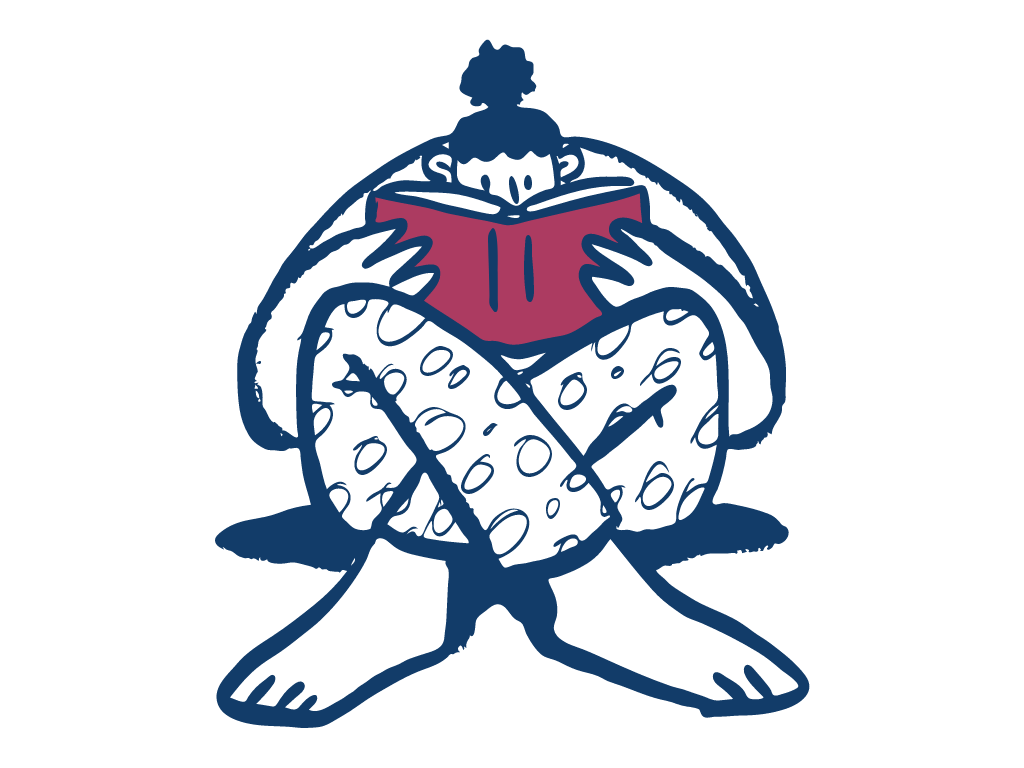
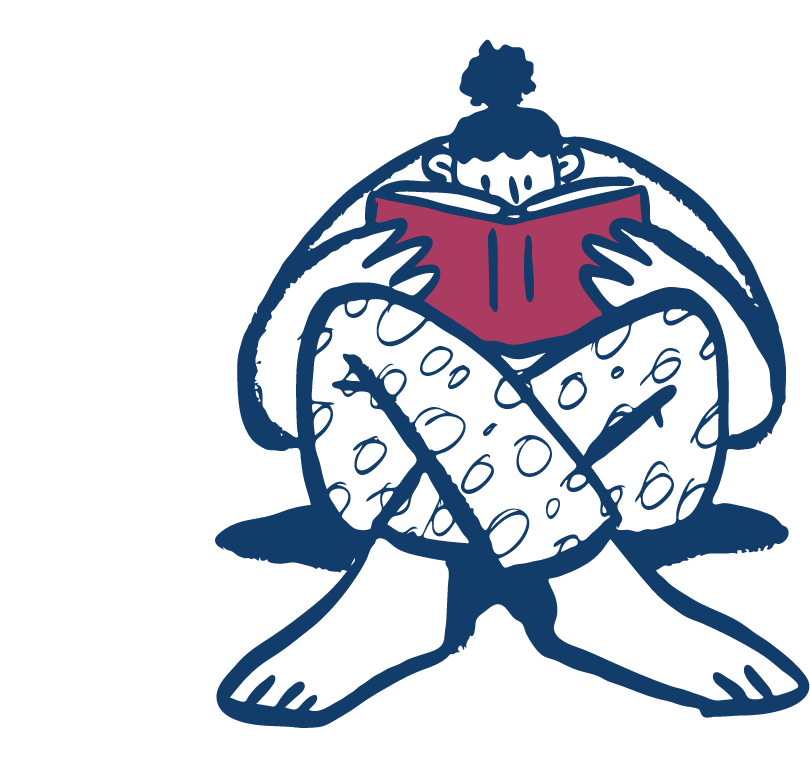
feat: change adaptive for 1200

Changed region(s): [[0.1852, 0.0312, 1.0, 0.9688]]

diff --git a/src/pages/HomePage/HomePage.jsx b/src/pages/HomePage/HomePage.jsx
@@ -33,7 +33,7 @@ export default function HomePage() {
           <div className="option">
             <h3 className="option-title">Статистика</h3>
             <span className="option-description">Отслеживай свой прогресс и стремись к новым целям!</span>
-            <img className="option-img" src="assets/images/ReadingDoodle.png" alt="" />
+            <img className="option-img option-img-small" src="assets/images/ReadingDoodle.png" alt="" />
           </div>
         </div>
       </div>

diff --git a/src/pages/HomePage/HomePage.scss b/src/pages/HomePage/HomePage.scss
@@ -95,6 +95,10 @@
     left: 4rem;
 }
 
+.option-img-small {
+    width: 240px;
+}
+
 .team-block {
     background-color: var(--color-bg);
     border-bottom: 2px solid var(--color-menu-font);
@@ -186,5 +190,6 @@
     .team-wrapper {
         padding: 4rem 5rem;
         flex-direction: column-reverse;
+        gap: 2rem;
     }
 }

diff --git a/src/components/footer/footer.scss b/src/components/footer/footer.scss
@@ -22,3 +22,9 @@ footer > a:visited {
     color: var(--color-title-font);
     font-weight: 900;
 }
+
+@media (max-width: 1350px) {
+	footer {
+		padding: 2rem 10rem;
+	}
+}

diff --git a/src/components/header/header.scss b/src/components/header/header.scss
@@ -36,3 +36,9 @@ nav > a:hover {
 	text-transform: uppercase;
 	color:var(--color-menu-font);
 }
+
+@media (max-width: 1350px) {
+	header {
+		padding: 2rem 10rem;
+	}
+}
